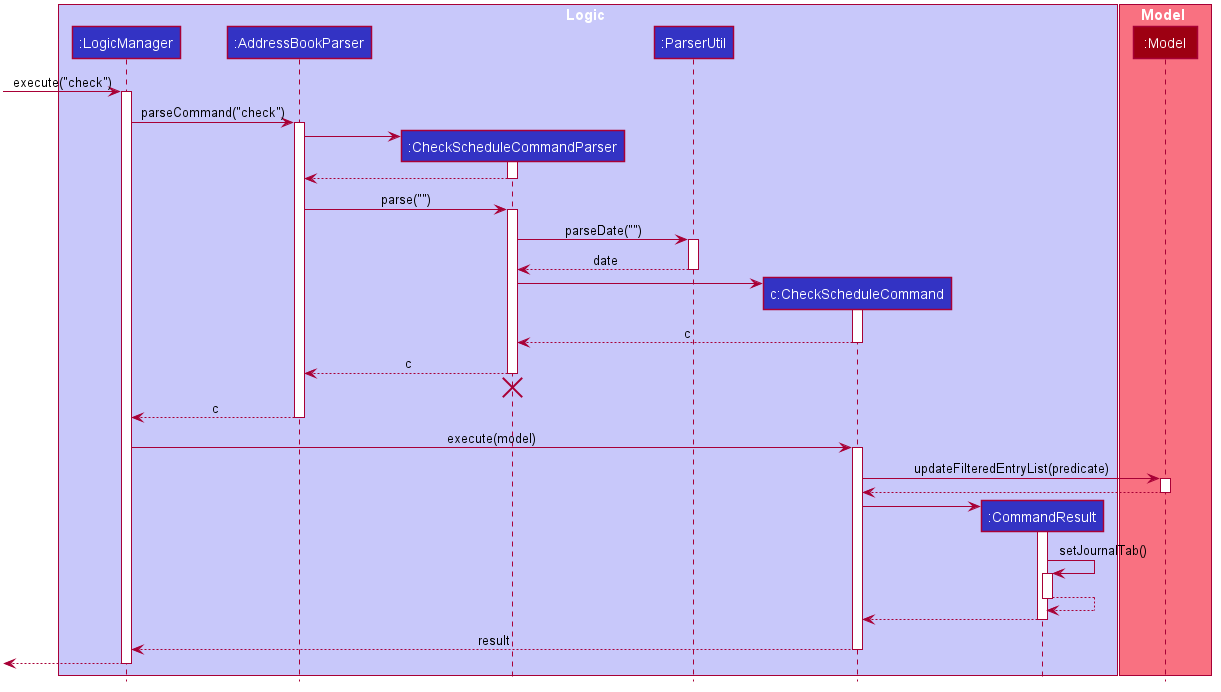
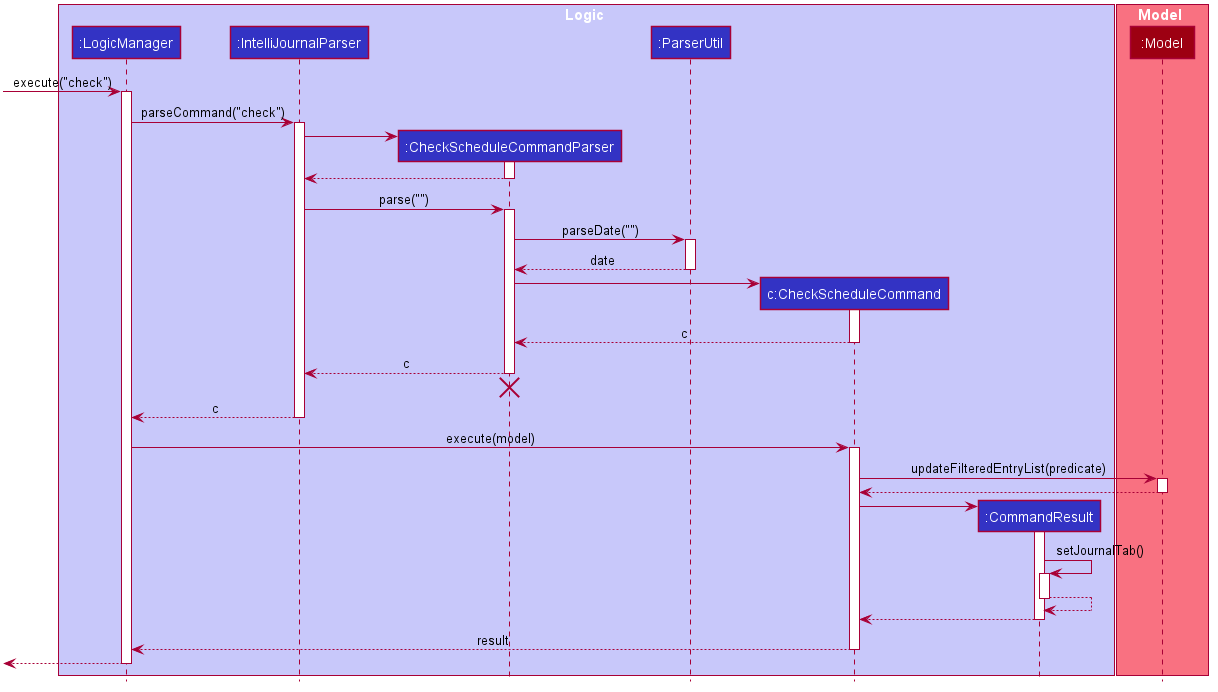
Update AddressBookParser to IntelliJournalParser

diff --git a/src/main/java/seedu/address/logic/LogicManager.java b/src/main/java/seedu/address/logic/LogicManager.java
@@ -11,7 +11,7 @@ import seedu.address.commons.core.LogsCenter;
 import seedu.address.logic.commands.Command;
 import seedu.address.logic.commands.CommandResult;
 import seedu.address.logic.commands.exceptions.CommandException;
-import seedu.address.logic.parser.AddressBookParser;
+import seedu.address.logic.parser.IntelliJournalParser;
 import seedu.address.logic.parser.exceptions.ParseException;
 import seedu.address.model.Model;
 import seedu.address.model.ReadOnlyAddressBook;
@@ -29,7 +29,7 @@ public class LogicManager implements Logic {
 
     private final Model model;
     private final Storage storage;
-    private final AddressBookParser addressBookParser;
+    private final IntelliJournalParser intelliJournalParser;
 
     /**
      * Constructs a {@code LogicManager} with the given {@code Model} and
@@ -38,7 +38,7 @@ public class LogicManager implements Logic {
     public LogicManager(Model model, Storage storage) {
         this.model = model;
         this.storage = storage;
-        addressBookParser = new AddressBookParser();
+        intelliJournalParser = new IntelliJournalParser();
     }
 
     /**
@@ -48,7 +48,7 @@ public class LogicManager implements Logic {
     public LogicManager(Model model, Storage storage, UUID uuid) {
         this.model = model;
         this.storage = storage;
-        addressBookParser = new AddressBookParser(uuid);
+        intelliJournalParser = new IntelliJournalParser(uuid);
     }
 
     @Override
@@ -57,7 +57,7 @@ public class LogicManager implements Logic {
         logger.info("----------------[USER COMMAND][" + commandText + "]");
 
         CommandResult commandResult;
-        Command command = addressBookParser.parseCommand(commandText);
+        Command command = intelliJournalParser.parseCommand(commandText);
         commandResult = command.execute(model);
 
         try {

diff --git a/src/test/java/seedu/address/logic/parser/IntelliJournalParserTest.java b/src/test/java/seedu/address/logic/parser/IntelliJournalParserTest.java
@@ -35,9 +35,9 @@ import seedu.address.testutil.EditPersonDescriptorBuilder;
 import seedu.address.testutil.PersonBuilder;
 import seedu.address.testutil.PersonUtil;
 
-public class AddressBookParserTest {
+public class IntelliJournalParserTest {
 
-    private final AddressBookParser parser = new AddressBookParser();
+    private final IntelliJournalParser parser = new IntelliJournalParser();
 
     @Nested
     @DisplayName("parseCommand method")
@@ -47,7 +47,7 @@ public class AddressBookParserTest {
                 + " add person input")
         public void parseCommand_addContact() throws Exception {
             UUID uuid = UUID.randomUUID();
-            AddressBookParser parser = new AddressBookParser(uuid);
+            IntelliJournalParser parser = new IntelliJournalParser(uuid);
             Person person = new PersonBuilder().build(uuid);
             AddContactCommand command = (AddContactCommand) parser
                     .parseCommand(PersonUtil.getAddCommand(person));

diff --git a/src/main/java/seedu/address/logic/parser/IntelliJournalParser.java b/src/main/java/seedu/address/logic/parser/IntelliJournalParser.java
@@ -21,7 +21,7 @@ import seedu.address.logic.parser.exceptions.ParseException;
 /**
  * Parses user input.
  */
-public class AddressBookParser {
+public class IntelliJournalParser {
 
     /**
      * Used for initial separation of command word and args.
@@ -32,15 +32,15 @@ public class AddressBookParser {
     private UUID uuid;
 
     /**
-     * Creates a default instance of AddressBookParser.
+     * Creates a default instance of IntelliJournalParser.
      */
-    public AddressBookParser() { }
+    public IntelliJournalParser() { }
 
     /**
-     * Creates an instance of AddressBookParser with a given uuid.
+     * Creates an instance of IntelliJournalParser with a given uuid.
      * @param uuid used in parsing.
      */
-    public AddressBookParser(UUID uuid) {
+    public IntelliJournalParser(UUID uuid) {
         this.uuid = uuid;
     }
 

diff --git a/docs/DeveloperGuide.md b/docs/DeveloperGuide.md
@@ -209,13 +209,13 @@ Note:
 
 *`XYZCOMMAND` represents the enumeration element for valid commands that can be used in the system*
 
-*`ValidCommand#commandTypeOf(String commandWord)` takes in a command keyword (eg. addj, addc, findc...) and returns a `ValidCommand` which will be used by `AddressBookParser`*
+*`ValidCommand#commandTypeOf(String commandWord)` takes in a command keyword (eg. addj, addc, findc...) and returns a `ValidCommand` which will be used by `IntelliJournalParser`*
 
-*`AddressBookParser#parseCommand(String UserInput)` detect the command word and pass in to the `ValidCommand#commandTypeOf(String commandWord)` to find the valid command and produce the `Command` accordingly*
+*`IntelliJournalParser#parseCommand(String UserInput)` detect the command word and pass in to the `ValidCommand#commandTypeOf(String commandWord)` to find the valid command and produce the `Command` accordingly*
 
 Given below is the sequence diagram of command alias feature (This change only related to `Logic` component, so we omit the execution detail in model):
 
-![aliasSequenceDiagram](images/commandAlias/asliasSequenceDiagram.png)
+![aliasSequenceDiagram](images/commandAlias/aliasSequenceDiagram.png)
 
 ### Tab navigation feature
 
@@ -270,7 +270,7 @@ allowing them to check their schedule for the given day.
 #### Current Implementation
 
 The current implementation makes use of the `CheckScheduleCommandParser` as well
-as the `CheckScheduleCommand` classes. When `AddressBookParser` parses the
+as the `CheckScheduleCommand` classes. When `IntelliJournalParser` parses the
 command and finds the `check` command, the rest of the command is passed into
 the `CheckScheduleCommandParser`, where the rest of the command is parsed.
 
@@ -294,18 +294,18 @@ The `help` command of IntelliJournal allows users to check the usage of a specif
 command, or get the link to the User Guide for the usage of all commands.
 #### Current Implementation
 In the current version of IntelliJournal, the help feature is implemented with
- both `HelpCommand` and `HelpCommandParser`. If the user input starts with `help`, 
- the `AddressBookParser` will catch it and pass the rest input into `HelpCommandParser`.
- 
+ both `HelpCommand` and `HelpCommandParser`. If the user input starts with `help`,
+ the `IntelliJournalParser` will catch it and pass the rest input into `HelpCommandParser`.
+
 Within the `HelpCommandParser`, there are mainly 3 execution path:
 1. If the argument starts with `of/` prefix, it will parse the argument behind `of/` to a
 `ValidCommand`, and return a HelpCommand with the `ValidCommand`.
-2. If the argument is empty, it will return a `HelpCommand` with the boolean term 
+2. If the argument is empty, it will return a `HelpCommand` with the boolean term
 `isShowHelpWindow` set to be `true`.
 3. Else, it will throw an `ParseException`.
 
 Back to `HelpCommand`, it will choose return a `CommandResult` which can make `MainWindow`
-to show the help window if the `isShowHelpWindow` is `true`. Or it will return a 
+to show the help window if the `isShowHelpWindow` is `true`. Or it will return a
 `CommandResult` which could print the usage of a certain valid command into result box.
 
 The following sequence diagrams show how the help command works:

diff --git a/docs/tutorials/TracingCode.md b/docs/tutorials/TracingCode.md
@@ -83,7 +83,7 @@ Recall from the User Guide that the `edit` command has the format: `edit INDEX [
 
         CommandResult commandResult;
         //Parse user input from String to a Command
-        Command command = addressBookParser.parseCommand(commandText);
+        Command command = intelliJournalParser.parseCommand(commandText);
         //Executes the Command and stores the result
         commandResult = command.execute(model);
 
@@ -105,7 +105,7 @@ Recall from the User Guide that the `edit` command has the format: `edit INDEX [
 
 1. `Step into` the line where user input in parsed from a String to a Command.
 
-    **`AddressBookParser\#parseCommand()`**
+    **`IntelliJournalParser\#parseCommand()`**
 
    ``` java
    public Command parseCommand(String userInput) throws ParseException {
@@ -120,7 +120,7 @@ Recall from the User Guide that the `edit` command has the format: `edit INDEX [
 
 1. We see that the value of `commandWord` is now `edit` but `arguments` is still not processed in any meaningful way.
 
-1. Stepping into the `switch`, we obviously stop at **`AddressBookParser\#parseCommand()`.**
+1. Stepping into the `switch`, we obviously stop at **`IntelliJournalParser\#parseCommand()`.**
 
     ``` java
     ...

diff --git a/docs/tutorials/AddRemark.md b/docs/tutorials/AddRemark.md
@@ -43,7 +43,7 @@ public class RemarkCommand extends Command {
 
 ### Hook `RemarkCommand` into the application
 
-Now that we have our `RemarkCommand` ready to be executed, we need to update `AddressBookParser#parseCommand()` to recognize the `remark` keyword. Add the new command to the `switch` block by creating a new `case` that returns a new instance of `RemarkCommand`.
+Now that we have our `RemarkCommand` ready to be executed, we need to update `IntelliJournalParser#parseCommand()` to recognize the `remark` keyword. Add the new command to the `switch` block by creating a new `case` that returns a new instance of `RemarkCommand`.
 
 You can refer to the changes in this [diff](https://github.com/se-edu/addressbook-level3/commit/35eb7286f18a029d39cb7a29df8f172a001e4fd8#diff-34ace715a8a8d2e5a66e71289f017b47).
 
@@ -213,7 +213,7 @@ public RemarkCommand parse(String args) throws ParseException {
 
 <div markdown="span" class="alert alert-primary">
 
-:information_source: Don’t forget to update `AddressBookParser` to use our new `RemarkCommandParser`!
+:information_source: Don’t forget to update `IntelliJournalParser` to use our new `RemarkCommandParser`!
 
 </div>
 

diff --git a/docs/UserGuide.md b/docs/UserGuide.md
@@ -96,7 +96,7 @@ A contact can have any number of tags (including 0)
 
 Examples:
 * `addcontact n/John Doe` Adds a contact with the name of `Robert`.
-* `addcontact n/Betsy Crowe t/client t/important` Adds a contact with the name 
+* `addcontact n/Betsy Crowe t/client t/important` Adds a contact with the name
   of `Robert` and tags of `client` and `important`.
 
 ### Adding a journal entry: `addjournal`
@@ -105,7 +105,7 @@ Adds a journal entry to the journal and switches to the journal tab.
 
 Aliases: `addjournal`, `addj`
 
-Format: `addjournal n/NAME [at/DATE_AND_TIME] [d/DESCRIPTION] 
+Format: `addjournal n/NAME [at/DATE_AND_TIME] [d/DESCRIPTION]
          [with/CONTACT_NAMES] [t/TAG]…`
 
 <div markdown="span" class="alert alert-primary">:bulb: **Tip:**
